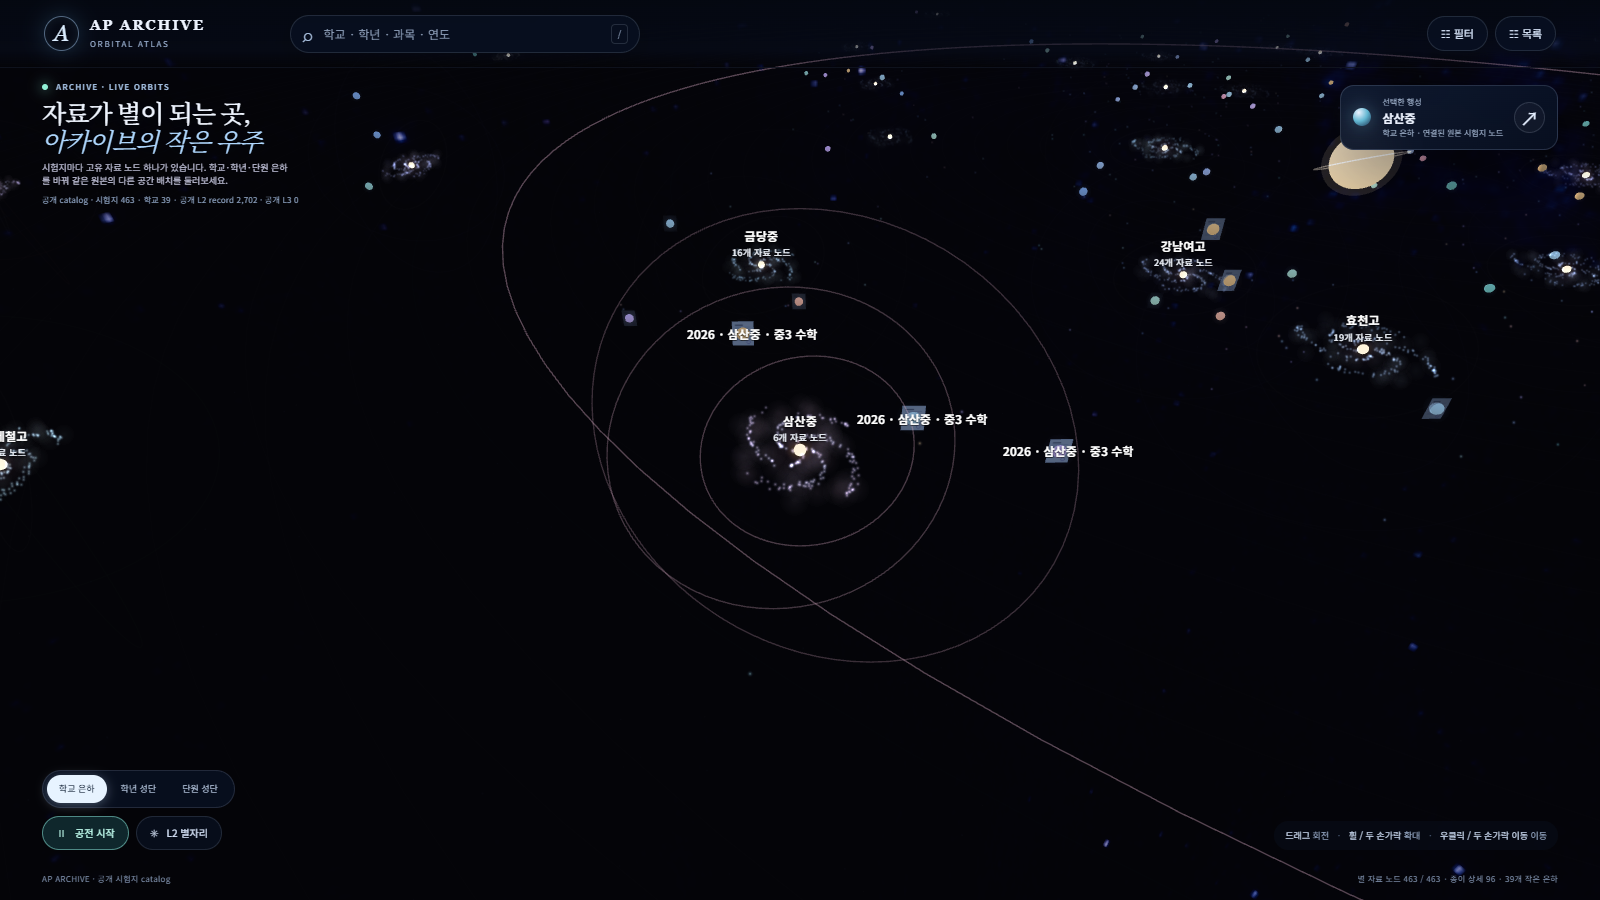
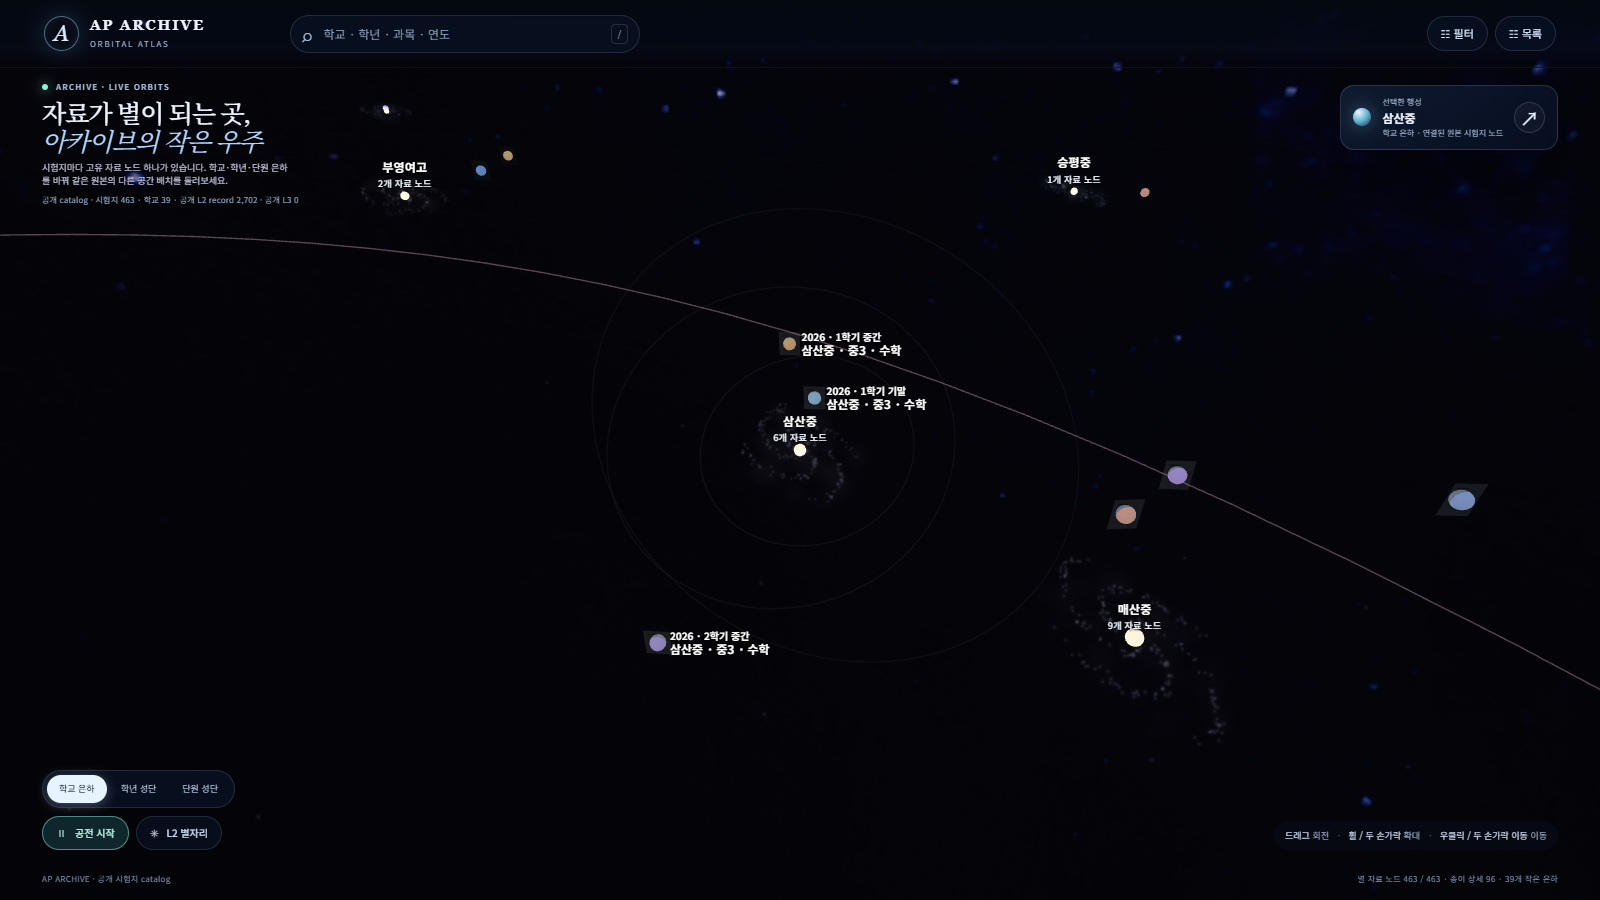
Disambiguate two-line satellite exam labels

diff --git a/archive/prototypes/ap-galaxy/orbit.css b/archive/prototypes/ap-galaxy/orbit.css
@@ -18,7 +18,7 @@ button,input,select{font:inherit}button{color:inherit;cursor:pointer}button:focu
 .planet-label-layer,.satellite-label-layer{position:absolute;inset:0;z-index:2;pointer-events:none}.planet-label{position:absolute;transform:translate(-50%,-50%);text-align:center;min-width:70px;white-space:nowrap;color:#fff;text-shadow:0 1px 2px #000;font-size:12px;font-weight:600;letter-spacing:.02em;pointer-events:none;transition:opacity .2s}.planet-label b{font-weight:700}.planet-label small{display:block;margin-top:2px;color:#edf2fa;font-size:9px;font-weight:500}
 body.search-active .planet-label{color:#fff;text-shadow:0 1px 2px #000}
 .blackhole-label-layer{position:absolute;inset:0;z-index:3;pointer-events:none}.blackhole-hit{position:absolute;display:none;transform:translate(-50%,-50%);align-items:center;gap:8px;padding:6px 10px 6px 6px;border:1px solid #d7c0ff75;border-radius:999px;background:#120e22df;color:#f0e9ff;box-shadow:0 0 19px #a382d45c;font-size:9px;text-align:left;pointer-events:auto;backdrop-filter:blur(10px)}.blackhole-hit:hover,.blackhole-hit:focus-visible{border-color:#ffe2a4;box-shadow:0 0 0 2px #ddceff55,0 0 23px #c59bff99}.blackhole-hit b,.blackhole-hit small{display:block;white-space:nowrap}.blackhole-hit b{font-size:9px}.blackhole-hit small{margin-top:1px;color:#c1afd9;font-size:7px}.blackhole-symbol{width:24px;height:24px;border-radius:50%;display:grid;place-items:center;color:#f3ca93;font-size:19px;background:radial-gradient(circle,#0a0813 42%,#b17bdd 49%,#e3b478 63%,#120d20 72%);box-shadow:0 0 11px #d0a2ff8c}
-.satellite-hit{position:absolute;transform:translate(-50%,-50%);pointer-events:auto;display:none;align-items:center;gap:6px;max-width:175px;padding:6px 9px 6px 6px;border:1px solid transparent;border-radius:0;background:transparent;color:#fff;box-shadow:none;font-size:11px;white-space:nowrap}.satellite-hit:before{content:"";display:block;flex:0 0 15px;width:15px;height:18px;pointer-events:none}.satellite-hit b{overflow:hidden;text-overflow:ellipsis;color:#fff;font-size:12px;font-weight:650;line-height:1.25;text-shadow:0 1px 2px #000}.focused .satellite-hit{display:flex}
+.satellite-hit{position:absolute;transform:translate(-15px,-50%);pointer-events:auto;display:none;align-items:flex-start;flex-direction:column;gap:1px;width:max-content;max-width:none;min-height:32px;padding:3px 9px 3px 27px;border:0;background:none;color:#fff;box-shadow:none;white-space:normal}.satellite-hit:before{content:"";position:absolute;left:6px;top:50%;width:15px;height:18px;transform:translateY(-50%);pointer-events:none}.satellite-period{color:#fff;font-size:10px;font-weight:600;line-height:1.1;text-shadow:0 1px 2px #000;white-space:nowrap}.satellite-period:empty{display:none}.satellite-hit b{color:#fff;font-size:12px;font-weight:650;line-height:1.1;text-shadow:0 1px 2px #000;white-space:nowrap}.focused .satellite-hit{display:flex}
 .entry-chip{position:absolute;z-index:4;top:85px;right:clamp(18px,3vw,42px);display:flex;align-items:center;gap:11px;padding:10px 12px;border-radius:14px;max-width:min(320px,calc(100vw - 36px))}.entry-orb{width:18px;height:18px;border-radius:50%;background:radial-gradient(circle at 32% 25%,#ecf2ff,#63b7d2 48%,#172b4a 100%);box-shadow:0 0 19px #9bddff68}.entry-chip small,.entry-chip b{display:block}.entry-chip small{font-size:8px;color:#9dafc8}.entry-chip b{font-size:12px;margin:1px 0}
 .drawer{position:absolute;z-index:12;top:14px;right:14px;bottom:14px;width:min(510px,calc(100vw - 28px));border-radius:22px;display:flex;flex-direction:column;overflow:hidden;transform:translateX(calc(100% + 30px));visibility:hidden;transition:transform .35s cubic-bezier(.2,.75,.2,1),visibility .35s}.drawer.open{transform:translateX(0);visibility:visible}.drawer-head{display:flex;align-items:center;gap:10px;padding:13px 16px;border-bottom:1px solid #d9e7ff16}.back-button{display:flex;align-items:center;gap:7px;border:0;background:transparent;color:#d0def3;padding:5px 0;font-size:11px}.back-button:hover{color:white}.drawer-kicker{margin-left:auto;color:#91a8c9;font-size:8px;letter-spacing:.18em}.close-drawer{margin-left:0}
 .exam-identity{display:flex;gap:13px;align-items:center;padding:16px 17px 12px}.paper-mark{flex:0 0 34px;height:42px;background:var(--paper);border-radius:3px;box-shadow:0 3px 10px #0005;padding:9px 6px;display:flex;flex-direction:column;gap:4px;transform:rotate(-4deg)}.paper-mark span{height:1px;background:#98a6ba}.paper-mark span:first-child{width:55%;background:#4d6682}.exam-identity .eyebrow{font-size:8px}.exam-identity h2{font:600 15px/1.35 Georgia,"Noto Serif KR",serif;margin:4px 0;color:#f7faff}.exam-meta{display:flex;flex-wrap:wrap;gap:6px;color:#aebfd7;font-size:9px}.exam-meta span{padding:3px 7px;border:1px solid #c4d9f31f;border-radius:99px}

diff --git a/archive/prototypes/ap-galaxy/orbit-app.js b/archive/prototypes/ap-galaxy/orbit-app.js
@@ -23,6 +23,20 @@
     const semester = exam.semester ? exam.semester + '학기 ' : '';
     return [exam.year ? exam.year + '년' : '', semester + type, exam.school, exam.grade, exam.subject].filter(Boolean).join(' · ');
   };
+  const satelliteLabelLines = (exam) => {
+    const year = clean(exam.year);
+    const semester = clean(exam.semester);
+    const examType = clean(exam.examType);
+    const semesterLabel = semester === '1' || semester === '2' ? semester + '학기' : semester;
+    const examTypeLabel = examType === 'mid' ? '중간' : examType === 'final' ? '기말' : examType;
+    const period = [year, [semesterLabel, examTypeLabel].filter(Boolean).join(' ')].filter(Boolean).join(' · ');
+    const school = clean(exam.school);
+    const grade = clean(exam.grade);
+    const subject = clean(exam.subject);
+    const subjectLabel = grade && subject.startsWith(grade) ? subject.slice(grade.length).trim() : subject;
+    const identity = [school, grade, subjectLabel].filter(Boolean).join(' · ');
+    return { period, identity };
+  };
   const examTags = (exam) => [...(state.tagsByFile.get(exam.file) || [])];
   const normalizedField = (value) => clean(value).toLocaleLowerCase('ko');
   const showToast = (message) => {
@@ -184,10 +198,14 @@
       button.type = 'button';
       button.dataset.examFile = exam.file;
       button.title = 'catalog source: ' + exam.file;
-      button.setAttribute('aria-label', examTitle(exam) + ' 원본 자료 노드 열기');
-      const title = document.createElement('b');
-      title.textContent = String(exam.year || '') + ' · ' + (exam.school || '') + ' · ' + (exam.subject || '시험지');
-      button.append(title);
+      const lines = satelliteLabelLines(exam);
+      button.setAttribute('aria-label', [lines.period, lines.identity, '원본 자료 노드 열기'].filter(Boolean).join(' · '));
+      const period = document.createElement('span');
+      period.className = 'satellite-period';
+      period.textContent = lines.period;
+      const identity = document.createElement('b');
+      identity.textContent = lines.identity;
+      button.append(period, identity);
       button.addEventListener('click', () => openExam(exam));
       ui.satelliteLabels.append(button);
       state.satelliteButtons.set(exam.file, button);

diff --git a/docs/reviews/ap-galaxy-visual-polish-20261011/README.md b/docs/reviews/ap-galaxy-visual-polish-20261011/README.md
@@ -9,12 +9,15 @@ These captures show the same AP Galaxy prototype before and after the close-up s
 - Close-up pair: focused on the same school group, 삼산중, then zoomed in with the mouse wheel.
 - Full-scene pair: school view with orbital motion paused.
 - Motion clip: focused scene with orbital motion resumed, followed by a drag rotation and wheel zoom.
-- Label-only comparison: `labels-before-*` shows the PR branch before the label change; `labels-after-*` shows the label-only update at the same viewport. The close-up pair uses 삼산중.
+- Label comparison: `labels-before-*` shows the PR branch before the two-line exam labels; `labels-after-*` shows the update at the same viewport. The close-up pair uses 삼산중 and distinguishes its 2026 first-term midterm, first-term final, and second-term midterm.
 
 ## Label-only screenshots
 
 - `labels-before-full.png` and `labels-after-full.png`: label readability across the full school view.
-- `labels-before-close.png` and `labels-after-close.png`: text-only school and exam labels at the focused close-up.
+- `labels-before-close.png` and `labels-after-close.png`: same-school, same-year exams in the focused close-up.
+- `labels-click-result.png`: clicking `2026 · 1학기 중간` opens the matching original `1mid` exam in the existing drawer and preview.
+
+The first line uses the catalog's `year`, `semester`, and `examType` fields; the second uses `school`, `grade`, and `subject`. Known `mid`/`final` values are translated, unknown non-empty enum values remain literal, and missing values are omitted. If the subject already starts with the catalog grade, that repeated prefix is shown once.
 
 ## Performance sample
 
